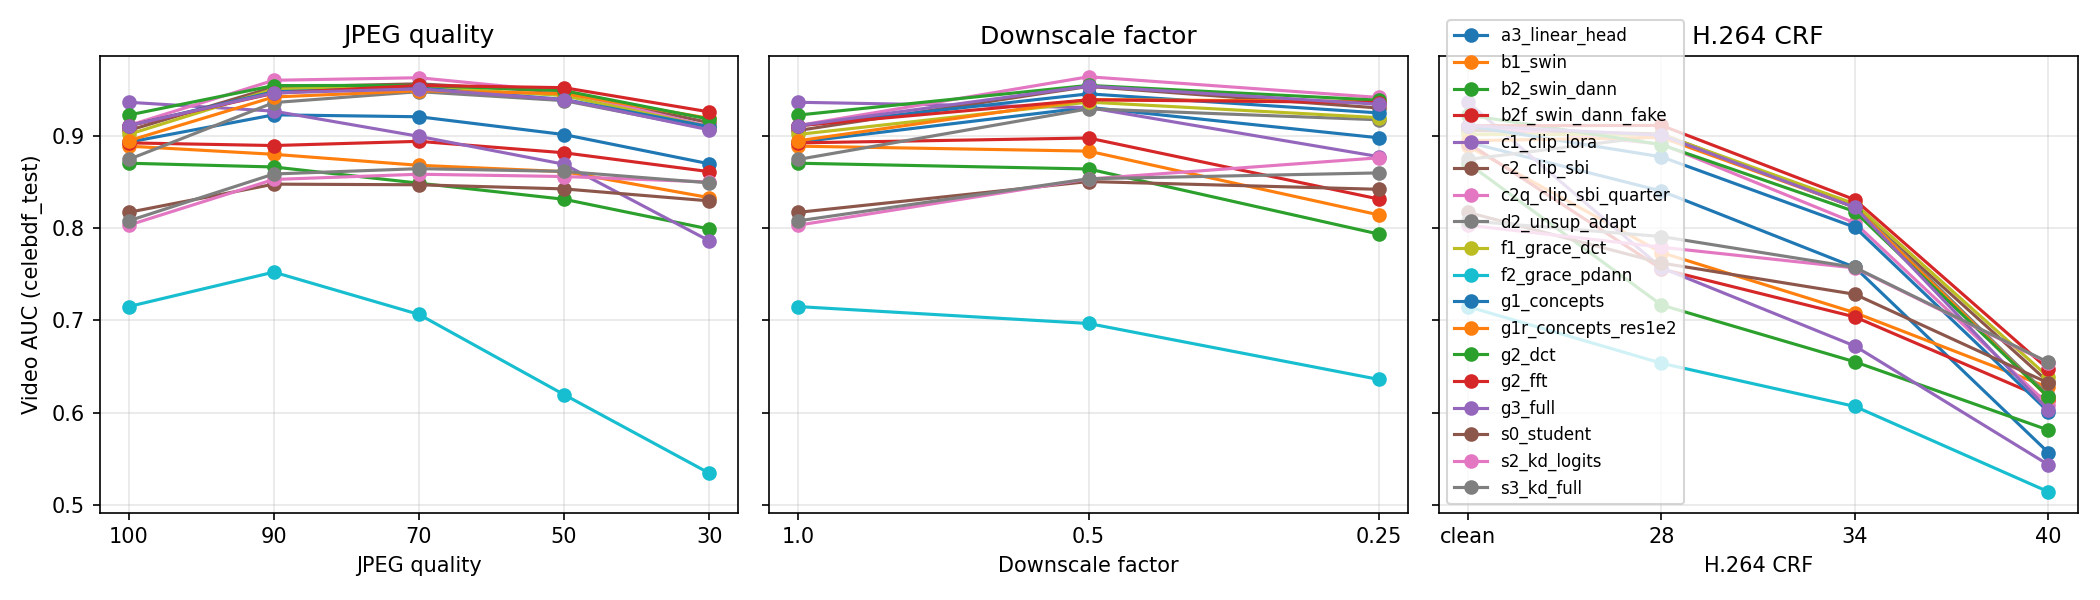
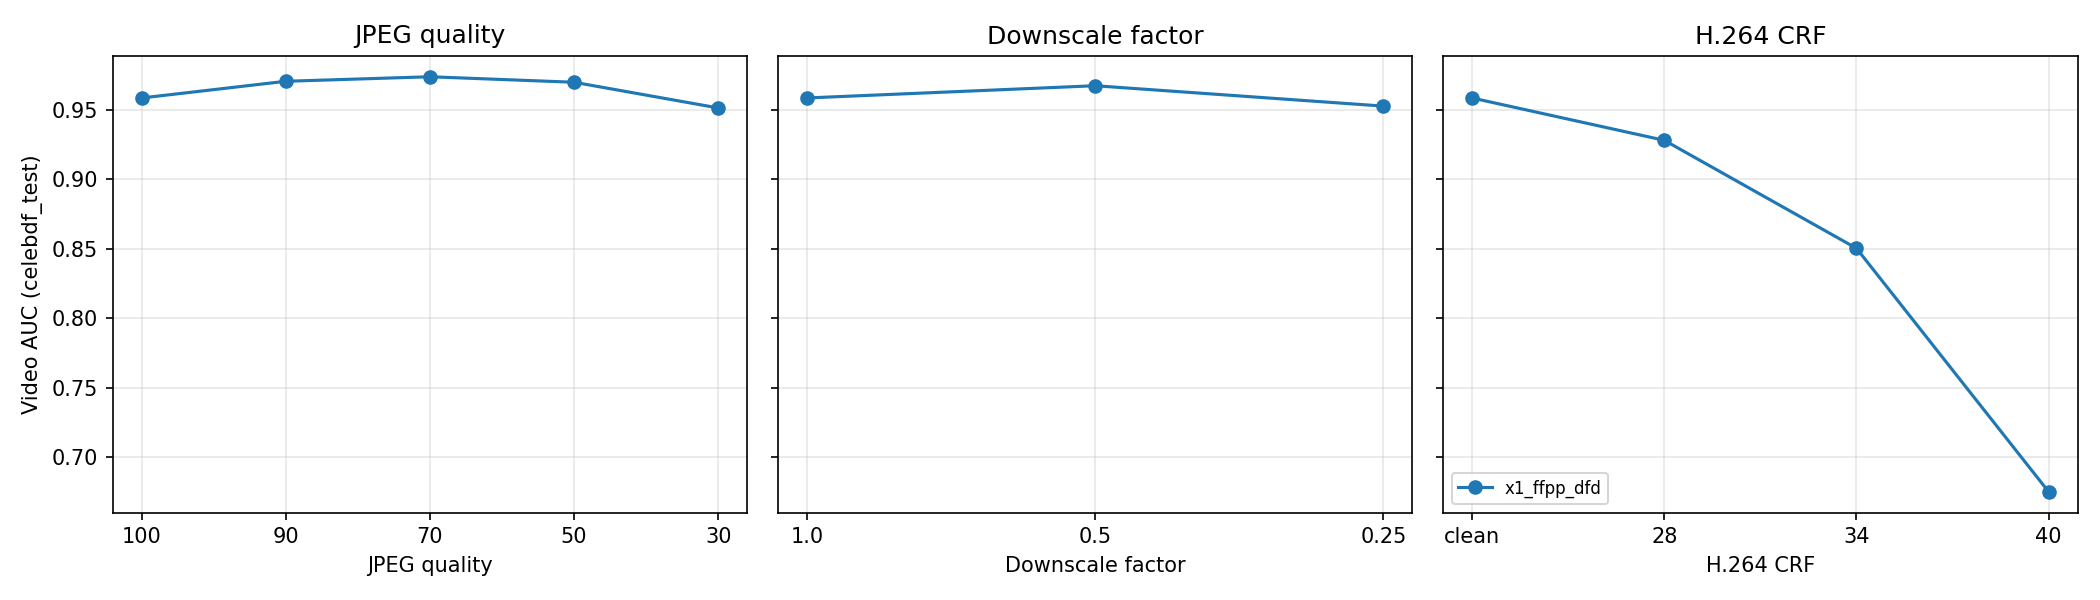
STATUS: S3x extension queued

diff --git a/STATUS.md b/STATUS.md
@@ -3,7 +3,7 @@
 ## Currently running
 
 - Queue runner: `scripts/start_queue.ps1` (detached; restart with `powershell -ExecutionPolicy Bypass -File scripts/start_queue.ps1`). State: `runs/_queue/state.json`, logs: `runs/_queue/<job>.log`, heartbeat: `runs/_queue/heartbeat.txt`.
-- GPU job: `final_eval_all_v5` (started 05:21), then `make_tables_v5`; queue then empty. All runbook tasks are done; these are extra seeds and evaluations.
+- GPU job: `final_eval_all_v5` (started 05:21), then `make_tables_v5`, then the S3x extension: `teacher_cache_x1` and the student distilled from X1 (`s3x_kd_from_x1`, seeds 42/1/2). All runbook tasks are done; these are extra seeds and experiments.
 - Watch live: `Get-Content runs\_queue\<job>.log -Wait -Tail 20` (queue: `runs\_queue\runner.log`).
 - B1 epoch time with the GPU to itself: ~4 min (198 img/s).
 
@@ -189,3 +189,4 @@ See `splits/counts.md` for the full table.
 - 2026-11-20 02:28 final_eval_all_v4 (870 rows; B1 now 3 seeds, D2 2) and make_tables_v4 (tables, summary, release) done. Summary: B1 3-seed cross-dataset mean at jpeg:30 is 0.817 (S3 0.833). Next: X1 robustness on FF++/Celeb-DF, then D2 seed 2.
 - 2026-11-20 03:24 X1 robustness (`results/robustness_x1.csv`, 3 seeds, FF++/Celeb-DF only). Celeb-DF video AUC X1 vs F1 (3-seed means): clean 0.959/0.901, jpeg:30 0.951/0.910, down:0.25 0.953/0.920, h264:28 0.928/0.901, h264:34 0.850/0.826, h264:40 0.675/0.639. X1 leads at every degradation; strong H.264 (crf 40) still hurts both about equally (-0.26 to -0.28). Next: D2 seed 2.
 - 2026-11-20 05:21 D2 seed 2 done: FF++ 0.9979 / DFD 0.9512 / Celeb-DF 0.8637. **D2 over 3 seeds: DFD 0.951±0.002, Celeb-DF 0.871±0.006 vs F1 0.951±0.004 / 0.901±0.017**: same on DFD, about 0.03 lower on Celeb-DF, the target it adapted to. Concept share on Celeb-DF rises to 0.90-0.99 (the head leans on concepts there) without improving AUC. Next: final_eval_all_v5, make_tables_v5.
+- 2026-11-20 05:35 Queued S3x: the S3 recipe (FF++ + SBI student data, full KD) distilled from X1 seed 42 instead of F1, 3 seeds. Question: does X1's Celeb-DF gain (0.958 vs 0.901) reach a student that never sees DFD data? Teacher outputs go to a separate `cache/teacher_x1` (F1 cache untouched); `cache_teacher.py` gained `--out` and run-name `--teacher`. Caveat: DFD test is not fully held out for S3x (its teacher trained on DFD); Celeb-DF is the clean comparison.
